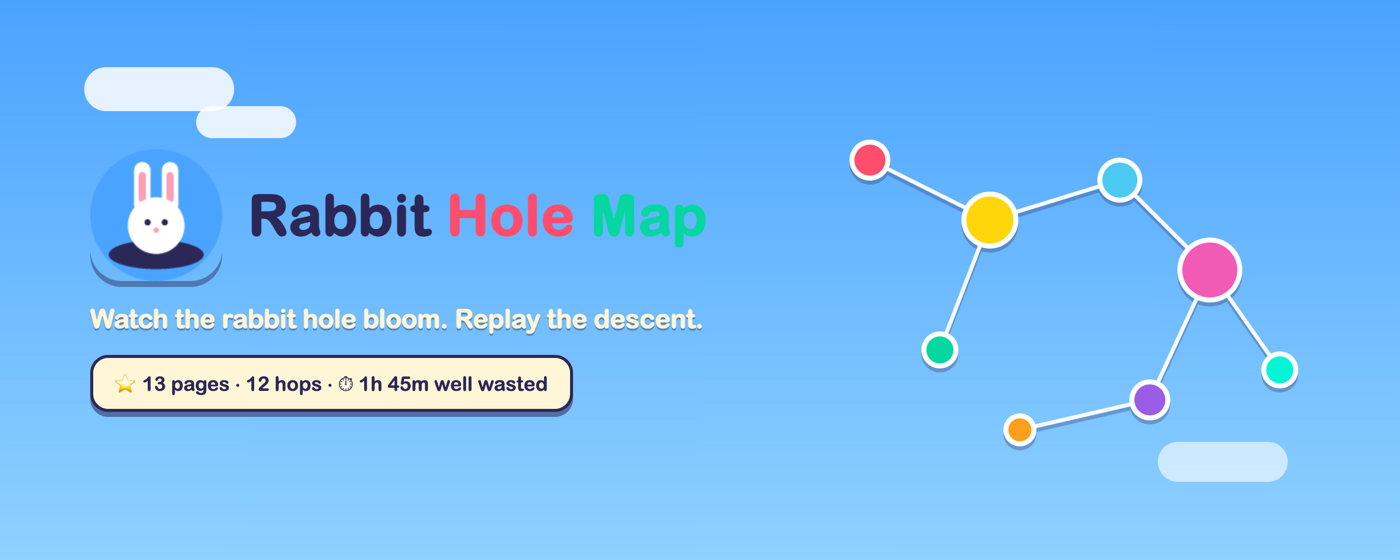
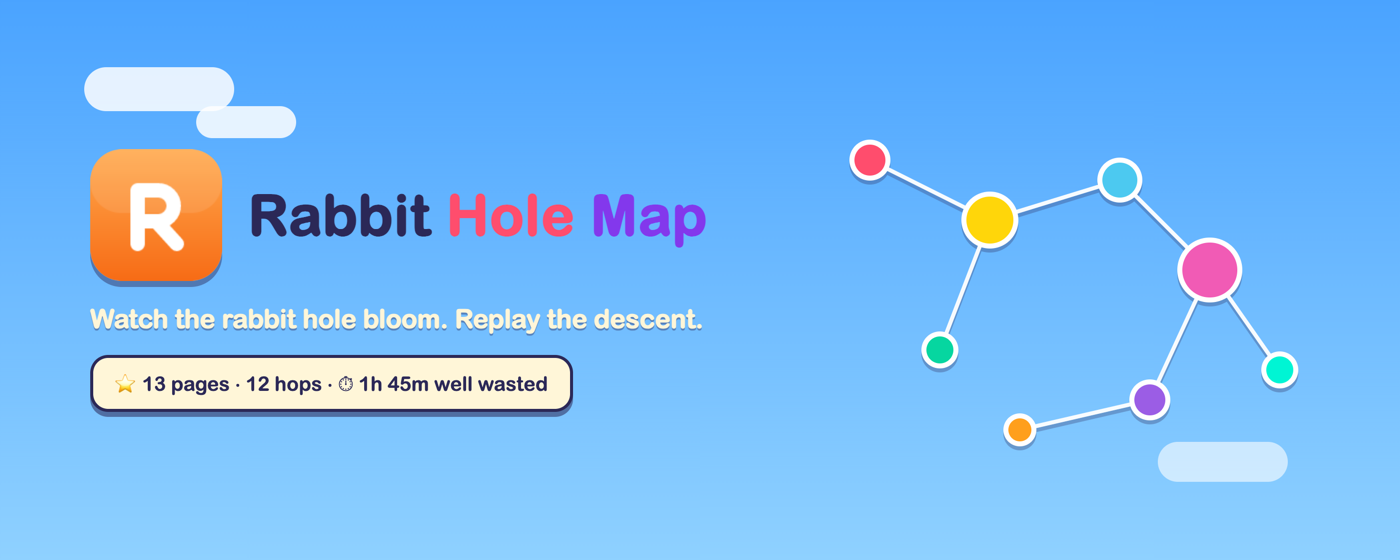
Promo wordmark "Map" reads purple against the sky
The grass-green Map had no contrast on the sky-blue tile background;
purple (#8338ec) pops. Tile and marquee regenerated — they also pick up
the new R icon, which the stage page embeds live.

Changed region(s): [[0.0614, 0.2429, 0.1843, 0.5161], [0.3993, 0.3339, 0.5221, 0.4554]]

diff --git a/marketing/stage/promo.html b/marketing/stage/promo.html
@@ -33,7 +33,7 @@
         color: #ff4d6d;
       }
       .wordmark .map {
-        color: #06d6a0;
+        color: #8338ec;
       }
       .tagline {
         font-weight: 700;
